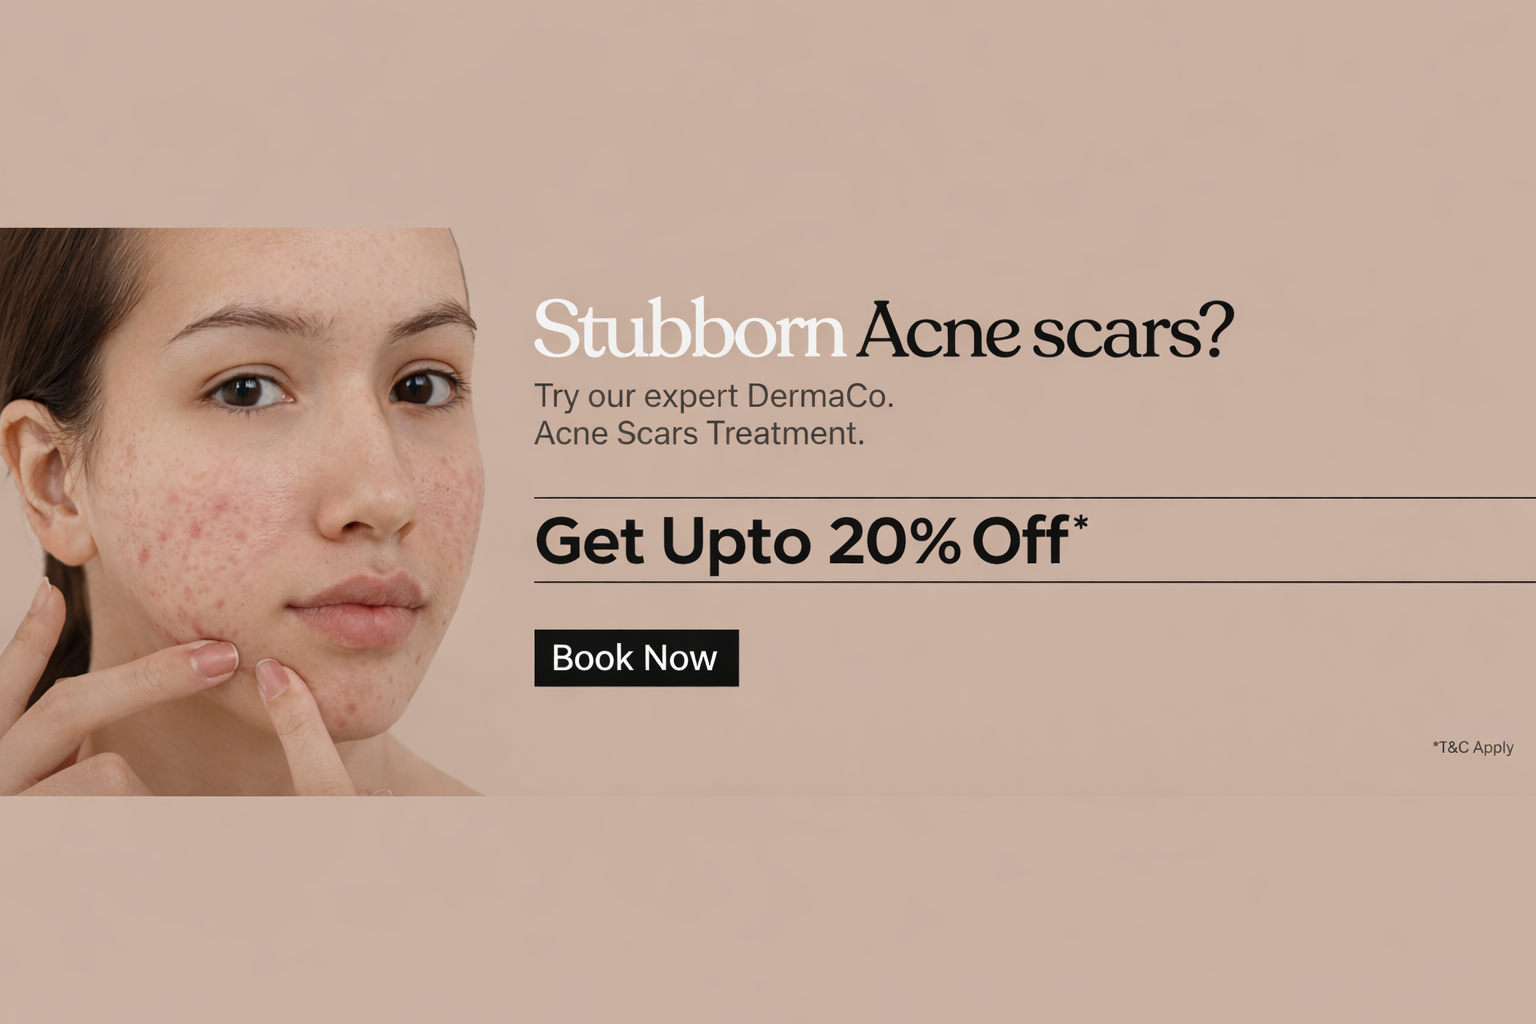
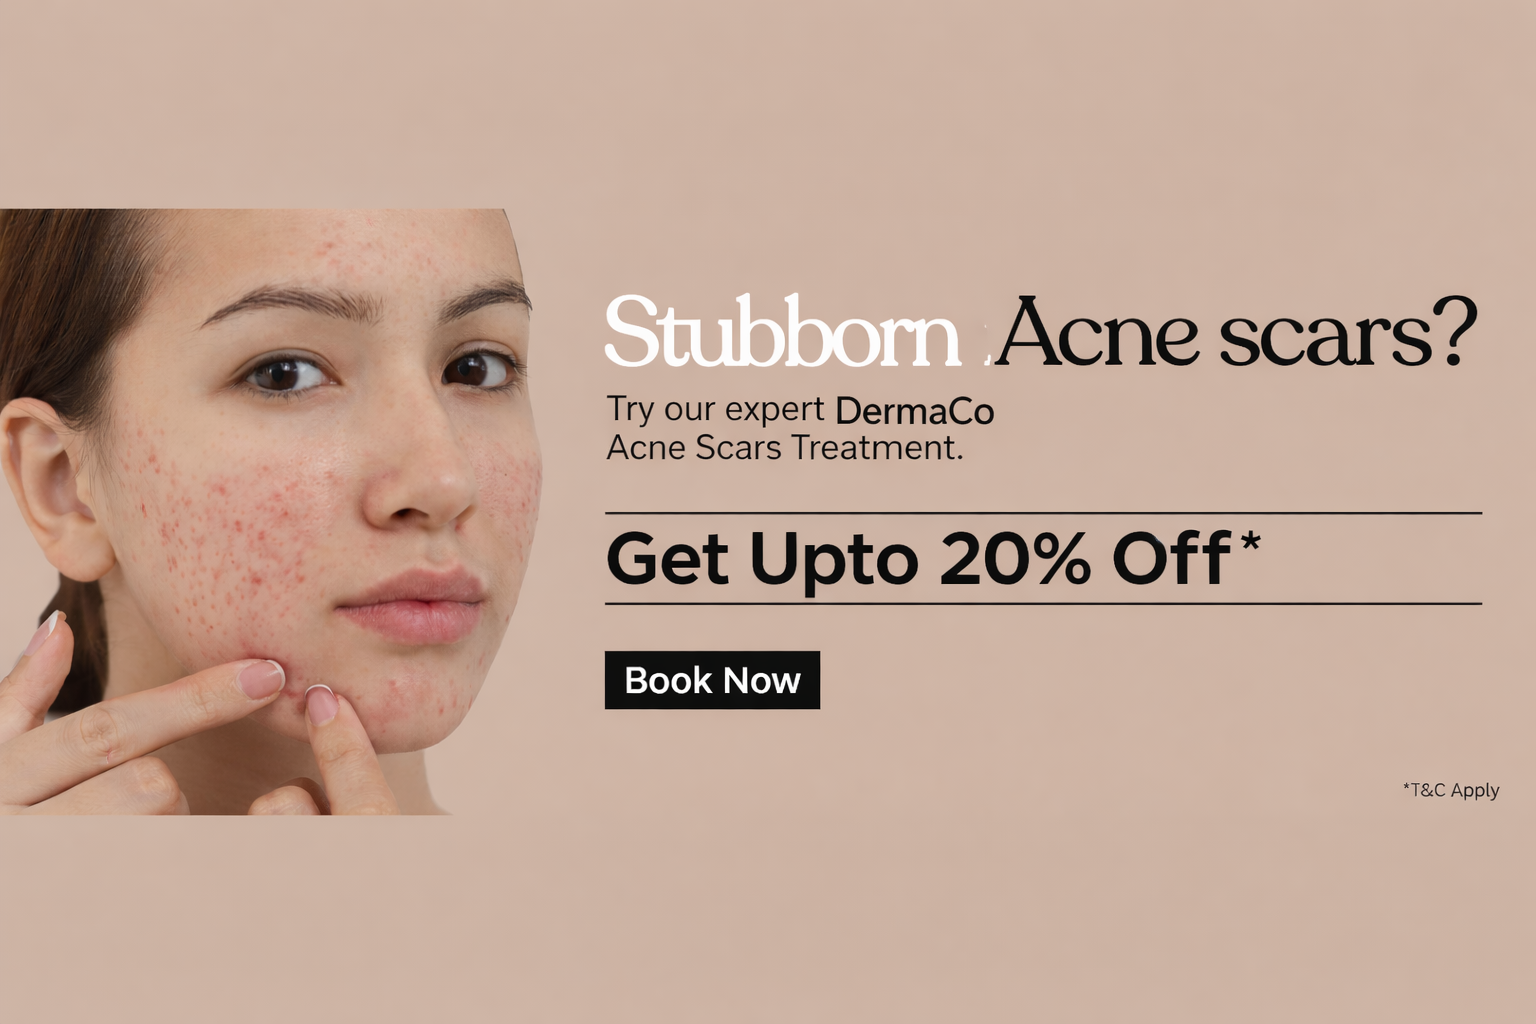
home page offer images resizing

Changed region(s): [[0.0, 0.1875, 0.9688, 0.8125], [0.9062, 0.7188, 0.9688, 0.7812]]

diff --git a/ASSETS/css/style.css b/ASSETS/css/style.css
@@ -18,27 +18,70 @@ WEBSITE: https://themefisher.com
 TWITTER: https://twitter.com/themefisher
 FACEBOOK: https://www.facebook.com/themefisher
 */
-@import url(https://fonts.googleapis.com/css?family=Montserrat:300,400,400i,500,500i,600,600i,700,700i,800|Open+Sans:400,400i,600,600i,700,700i,800&display=swap);
+@import url(https://fonts.googleapis.com/css2?family=Montserrat:wght@400;500;600&display=swap);
 /* Typography
 ================================================== */
+html {
+  scroll-behavior: smooth;
+}
+
+:root {
+  /* Brand colors (from your logo) */
+  --brand-yellow: #FFC107;
+  --brand-yellow-dark: #E0A800;
+  --brand-black: #0F0F0F;
+  --brand-white: #FFFFFF;
+
+  /* Text & UI */
+  --text-dark: #1B1B1B;
+  --text-muted: #6A6A6A;
+  --bg-light: #FAFAFA;
+
+  /* Effects */
+  --shadow-soft: 0 10px 30px rgba(0, 0, 0, 0.12);
+  --radius: 14px;
+}
+
+
 body {
-  background: #fff;
-  color: #555;
+  
   padding-left: 10px;
   padding-right: 10px;
 }
 
 body,
 p {
-  font-family: "Open Sans", sans-serif;
+  
   text-rendering: optimizeLegibility;
   -webkit-font-smoothing: antialiased !important;
-  line-height: 26px;
+  
   font-size: 15px;
+  body {
+  font-family: 'Montserrat', sans-serif;
+  background: var(--brand-white);
+  color: var(--text-dark);
+  line-height: 1.7;
+  letter-spacing: 1px;
+}
+
 }
 section {
   scroll-margin-top: 100px;
 }
+/* Initial hidden state */
+.fade-in {
+  opacity: 0;
+  transform: translateY(20px);
+  transition: opacity 0.6s ease-out, transform 0.6s ease-out;
+}
+
+/* When observer adds 'show' */
+.fade-in.show {
+  opacity: 1;
+  transform: translateY(0);
+}
+
+
 
 h1,
 h2,
@@ -84,6 +127,9 @@ h4 {
 h5 {
   font-size: 14px;
   line-height: 24px;
+}
+p{
+  color: var(--text-muted);
 }
 h1:hover,
  h2:hover,
@@ -568,7 +614,18 @@ a[href^=tel] {
 }
 
 .btn-primary {
-  background: #FFB600;
+  background: linear-gradient(
+    135deg,
+    var(--brand-yellow),
+    var(--brand-yellow-dark)
+  );
+  color: #000;
+  border: none;
+  border-radius: 999px;
+  padding: 12px 28px;
+  font-weight: 600;
+  box-shadow: var(--shadow-soft);
+  transition: all 0.3s ease;
 }
 
 .btn-dark {
@@ -578,8 +635,8 @@ a[href^=tel] {
 .btn-primary:hover,
 .btn-dark:hover,
 .btn-white.btn-primary:hover {
-  background: #111;
-  color: #fff;
+ transform: translateY(-2px);
+  box-shadow: 0 16px 40px rgba(0, 0, 0, 0.18);
 }
 .btn-primary:hover:active, .btn-primary:hover:focus,
 .btn-dark:hover:active,
@@ -1541,8 +1598,16 @@ ul.navbar-nav > li.header-get-a-quote:hover > a:after {
 /* Call to action
 ================================================== */
 .call-to-action {
-  background-color: #272d33;
-  padding: 30px;
+
+  background: linear-gradient(
+    135deg,
+    #000000,
+    #1a1a1a
+  );
+  color: var(--brand-white);
+  border-radius: var(--radius);
+  margin: 60px 16px;
+  padding: 50px 20px;
 }
 
 .call-to-action-title {
@@ -3850,9 +3915,12 @@ label {
 .offer-item {
   display: block;
   position: relative;
+
+  background: var(--brand-white);
+  border-radius: var(--radius);
   overflow: hidden;
-  border-radius: 16px; /* smooth shape */
-  transition: transform 0.35s ease, box-shadow 0.35s ease;
+  box-shadow: 0 8px 22px rgba(0, 0, 0, 0.08);
+  transition: all .35s ease;
 }
 
 /* Image */
@@ -3865,8 +3933,8 @@ label {
   transition: transform 0.45s ease;
 }
 .offer-item:hover {
-  transform: translateY(-6px);
-  box-shadow: 0 18px 40px rgba(0,0,0,0.12);
+  transform: translateY(-8px);
+  box-shadow: 0 20px 45px rgba(0, 0, 0, 0.18);
 }
 
 /* Hover zoom (desktop) */

diff --git a/PAGES/home.html b/PAGES/home.html
@@ -47,7 +47,8 @@
 <!-- OFFER GRID SECTION -->
 <!-- OFFER IMAGE SECTION -->
 <!-- OFFER IMAGE SECTION -->
-<section class="offer-section">
+<section class="offer-section fade-in">
+
     <div class="offer-wrapper">
 
         <a href="#" onclick="loadPage('../PAGES/Services/acne_scar.html')" class="offer-item track-offer"
@@ -56,23 +57,23 @@
         </a>
 
         <a href="#" onclick="loadPage('../PAGES/Services/anti_age.html')" class="offer-item track-offer" data-offer="ageing">
-            <img src="../ASSETS/images/offers/2.jpg" alt="Ageing" loading="lazy">
+            <img src="../ASSETS/images/offers/2.png" alt="Ageing" loading="lazy">
         </a>
 
         <a href="#" onclick="loadPage('../PAGES/Services/facial.html')" class="offer-item track-offer" data-offer="facial">
-            <img src="../ASSETS/images/offers/3.jpg" alt="Facial" loading="lazy">
+            <img src="../ASSETS/images/offers/3.png" alt="Facial" loading="lazy">
         </a>
 
         <a href="#" onclick="loadPage('../PAGES/Services/hair.html')" class="offer-item track-offer" data-offer="hair">
-            <img src="../ASSETS/images/offers/4.jpg" alt="Hair" loading="lazy">
+            <img src="../ASSETS/images/offers/4.png" alt="Hair" loading="lazy">
         </a>
 
         <a href="#" class="offer-item track-offer" onclick="loadPage('../PAGES/Services/laser_hair.html')" data-offer="laser">
-            <img src="../ASSETS/images/offers/5.jpg" alt="Laser" loading="lazy">
+            <img src="../ASSETS/images/offers/5.png" alt="Laser" loading="lazy">
         </a>
 
-        <a href="/skin" class="offer-item track-offer" data-offer="skin">
-            <img src="../ASSETS/images/offers/6.jpg" alt="Skin" loading="lazy">
+        <a href="#" class="offer-item track-offer" onclick="loadPage('../PAGES/Services/skin_brithing.html')" data-offer="skin">
+            <img src="../ASSETS/images/offers/6.png" alt="Skin" loading="lazy">
         </a>
 
     </div>

diff --git a/ASSETS/js/edited.js b/ASSETS/js/edited.js
@@ -192,3 +192,34 @@ function initFAQ() {
 
   console.log("FAQ initialized");
 }
+
+function loadPage(page) {
+  fetch(page)
+    .then(r => r.text())
+    .then(d => {
+      const content = document.getElementById("content");
+      content.innerHTML = d;
+
+      // Re-init fade-in observer for new content
+      const observer = new IntersectionObserver(entries => {
+        entries.forEach(entry => {
+          if (entry.isIntersecting) {
+            entry.target.classList.add('show');
+          }
+        });
+      }, { threshold: 0.15 });
+
+      document.querySelectorAll('.fade-in').forEach(el => observer.observe(el));
+
+      // 🔥 banner init ONLY after DOM paint
+      requestAnimationFrame(() => {
+        if (page.includes("home")) {
+          initHomeBanner();
+        }
+      });
+      initTabs();
+      initReviewsSlider();
+      initFAQ();
+    });
+}
+
